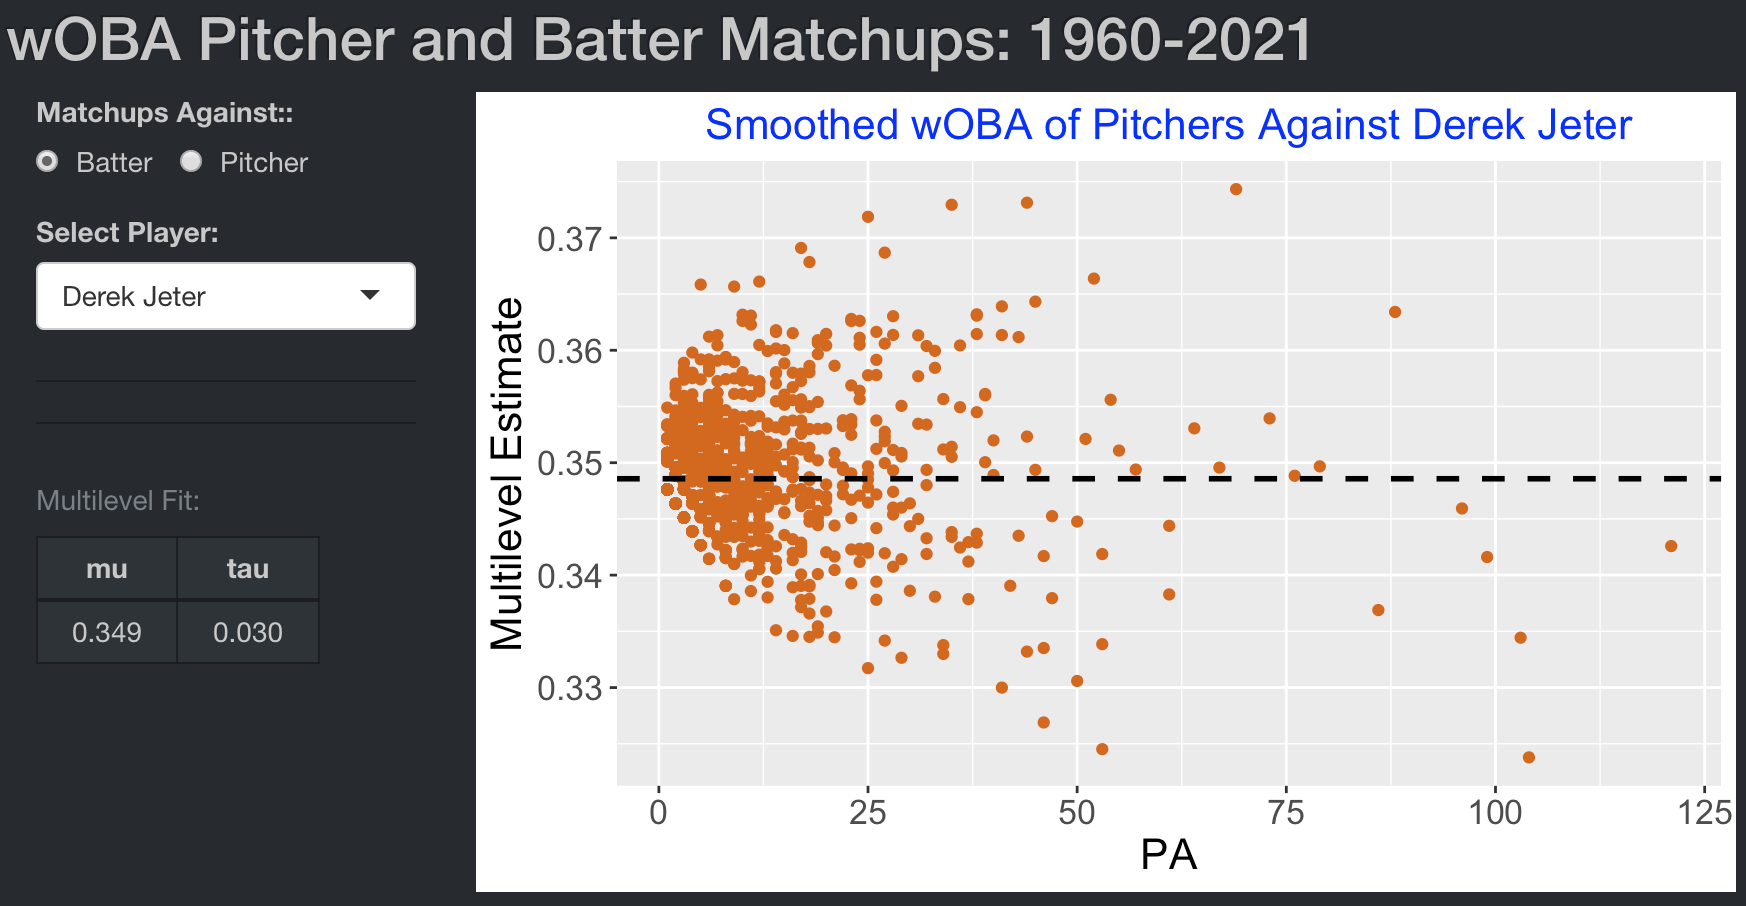
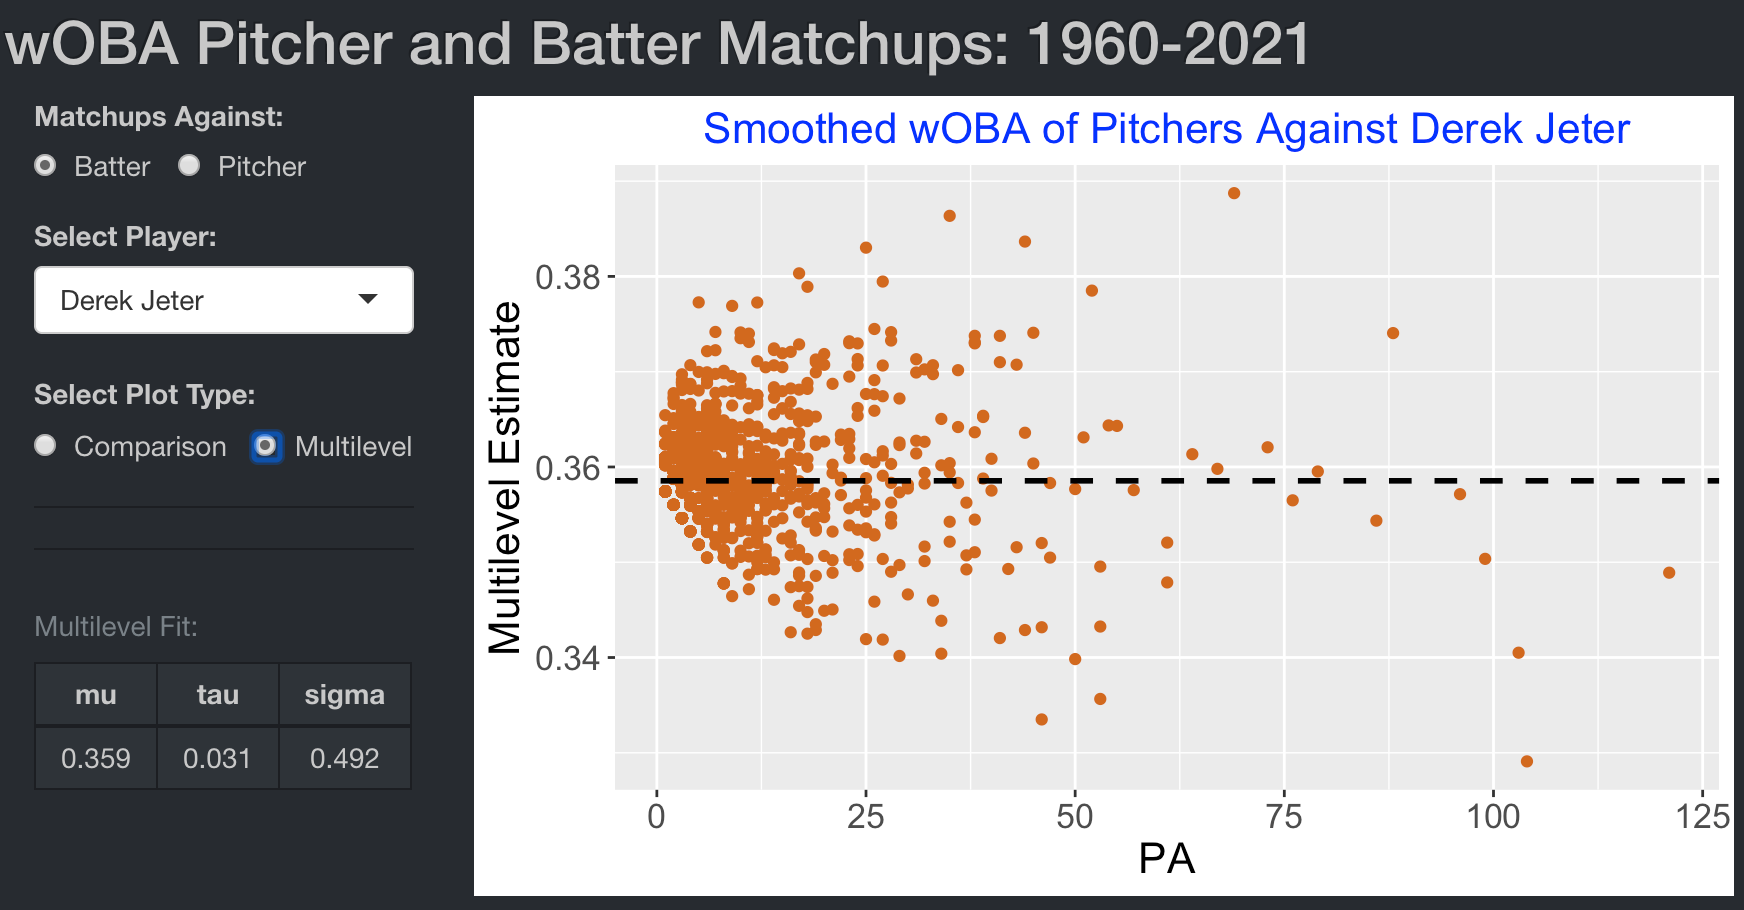
adjusted woba chapter

diff --git a/shinybaseball/woba_matchups.html b/shinybaseball/woba_matchups.html
@@ -24,7 +24,7 @@
 <meta name="author" content="Jim Albert" />
 
 
-<meta name="date" content="2022-02-11" />
+<meta name="date" content="2022-02-13" />
 
   <meta name="viewport" content="width=device-width, initial-scale=1" />
   <meta name="apple-mobile-web-app-capable" content="yes" />
@@ -276,14 +276,16 @@
 </div>
 <div id="using-the-woba_matchups-app" class="section level2" number="28.2">
 <h2><span class="header-section-number">28.2</span> Using the wOBA_Matchups App</h2>
-<p>First one decides if we are interested in matchups against a particular batter or a particular pitcher. Here we choose “Batter”. Then we choose a particular player of interest from the dropdown menu – here we choose HOF player Derek Jeter.</p>
-<p>The graph displays smoothed wOBA values against the count of plate appearances (PA) for all pitchers who faced Derek Jeter during his career. Note that most pitchers faced Jeter for 50 or fewer plate appearances.</p>
-<p><img src="figures/woba1.png" width="873" /></p>
-<p>We are interested in finding pitchers who do unusually well or poorly against Jeter. One can brush over the scatterplot and the table displays the corresponding pitchers. Here we look at pitchers who faced Jeter at least 100 PA with the smallest wOBA estimates. The table indicates that Jeter struggled against Roy Halladay and James Shields with wOBA estimates of .324 andn .334, respectively.</p>
-<p><img src="figures/woba2.png" width="872" /></p>
-<p>We can also look at all batters that faced a particular pitcher during his career. We choose matchups against “Pitcher” and select Roger Clemens from the dropdown menu.</p>
-<p>There are several interesting insights from the graph displaying wOBA for all hitters against Clemens. First note that most hitters with at least 80 PA tended to have a higher-than-average wOBA value. Also there is one high outlier – by brushing over this point, we see that Jim Thome had the most successful performance against Clemens with a .336 smoothed wOBA value.</p>
-<p><img src="figures/woba3.png" width="877" /></p>
+<p>First one decides if we are interested in matchups against a particular batter or a particular pitcher. Here we choose “Batter”. Then we choose a particular player of interest from the dropdown menu – here we choose HOF player Derek Jeter. Last, we decide on the graph to display, either Comparison or Multilevel.</p>
+<p>If one chooses Comparison as the plot type, then one sees a graph of the raw wOBA and multilevel wOBA estimates plotted against the count of plate appearances (PA) for all pitchers who faced Derek Jeter during his career. Note that most pitchers faced Jeter for 50 or fewer plate appearances. It is clear that the multilevel estimates shrink the raw wOBA strongly towards an average value.</p>
+<p><img src="figures/woba0.png" width="875" /></p>
+<p>If one chooses Multilevel as the plot type, the graph displays smoothed wOBA values against the count of plate appearances (PA) for all pitchers who faced Jeter.</p>
+<p><img src="figures/woba1.png" width="872" /></p>
+<p>We are interested in finding pitchers who do unusually well or poorly against Jeter. One can brush over the scatterplot and the table displays the corresponding pitchers. Here we look at pitchers who faced Jeter at least 100 PA with the smallest wOBA estimates. The table indicates that Jeter struggled against Roy Halladay and James Shields with wOBA estimates of .329 and .341, respectively.</p>
+<p><img src="figures/woba2.png" width="877" /></p>
+<p>We can also look at all batters that faced a particular pitcher during his career. We choose matchups against “Pitcher”, select Roger Clemens from the dropdown menu, and choose Multilevel as the plot type.</p>
+<p>There are several interesting insights from the graph displaying wOBA for all hitters against Clemens. First note that most hitters with at least 80 PA tended to have a higher-than-average wOBA value. Also there is one high outlier – by brushing over this point, we see that Jim Thome had the most successful performance against Clemens with a .412 smoothed wOBA value.</p>
+<p><img src="figures/woba3.png" width="874" /></p>
 </div>
 <div id="blog-posts-3" class="section level2" number="28.3">
 <h2><span class="header-section-number">28.3</span> Blog Posts</h2>
